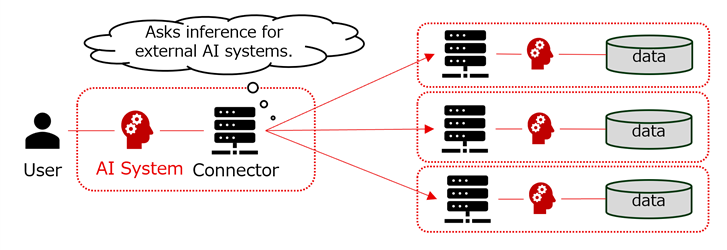
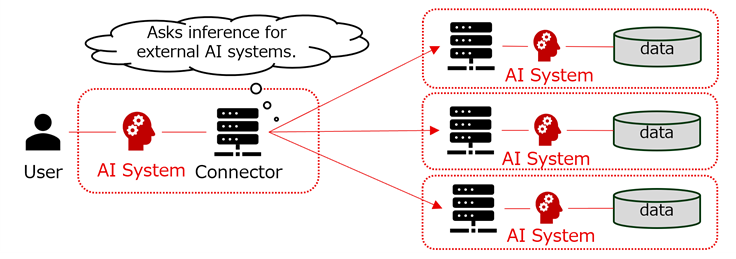
docs: add overall figure and misc corrections

diff --git a/docs-kits/kits/ai-support-kit/software-development-view.md b/docs-kits/kits/ai-support-kit/software-development-view.md
@@ -75,12 +75,20 @@ For the `Consumer App` to use `Provider AI` in this configuration, the `Provider
 Refer to the [Management API Overview](https://github.com/eclipse-tractusx/tractusx-edc/blob/main/docs/usage/management-api-walkthrough/README.md) for general procedures and the functionality of individual API calls.
 
 The parts of this procedure relevant to this KIT are as follows:
-- `create asset` step: The `Provider App` registers clues for the `Client App` to find `Provider AI` with EDC. See the [Creating an Asset of LLM](#creating-an-asset-of-llm) section for details.
-- `create contract` step: The `Provider App` registers a contract with EDC that references AI-specific rules. For details, see [Creating a Usage Policy for LLM](#creating-a-usage-policy-for-llm).
+- `create asset` step: The `Provider App` registers clues for the `Client App` to find `Provider AI` with EDC. See the [Creating an Asset of AI system](#creating-an-asset-of-ai-system) section for details.
+- `create contract` step: The `Provider App` registers a contract with EDC that references AI-specific rules. For details, see [Creating a Usage Policy for AI system](#creating-a-usage-policy-for-ai-system).
+
+By adding these property and definition, consumer will be able to find AI system it wants, and then to agree to the Provider's request that it should follow the EU AI Act, for example.
+
+[![c](concept-ai-small.png)](concept-ai.png)
+
+The figure shown above shows how the Provider and Consumer can use the definitions discussed in this KIT.
+
+Note: data plane in the figure goes through http proxy, but this is not a requirement.
 
 ## Sample Data
 
-### Creating an Asset of LLM
+### Creating an Asset of AI System
 
 To register an AI ssytem to EDC, `Provider App` needs to `POST` a JSON object to `/v3/assets`. The JSON object needs the following property added to `properties` section:
 
@@ -180,9 +188,9 @@ The `subType` property can have one of the following values:
 
 `details` property may have an object containing any kinds of propererties.
 
-## Creating a Usage Policy for LLM
+## Creating a Usage Policy for AI System
 
-When utilizing AI, aspects such as safety, transparency, ethics, and privacy protection are of critical importance, and AI regulations addressing these concerns are established across different regions and countries. These regulations must be observed by all parties involved, including data providers, data users (AI system developers and AI users). Therefore, compliance with AI regulations is essential when using the LLM Support KIT. Below is an explanation of how AI regulations are applied within EDC.
+When utilizing AI, aspects such as safety, transparency, ethics, and privacy protection are of critical importance, and AI regulations addressing these concerns are established across different regions and countries. These regulations must be observed by all parties involved, including data providers, data users (AI system developers and AI users). Therefore, compliance with AI regulations is essential when using the AI Service KIT. Below is an explanation of how AI regulations are applied within EDC.
 
 ### *List of AI-related Laws and Regulations by Country/Region
 
@@ -225,7 +233,7 @@ Here's an example
             "@type": "LogicalConstraint",
             "leftOperand": "https://w3id.org/catenax/policy/UsagePurpose",
             "operator": "eq",
-            "rightOperand": "cx.llm.base:1"
+            "rightOperand": "cx.ai.base:1"
           }
         ]
       }
@@ -236,11 +244,13 @@ Here's an example
 }
 ```
 
-The expression rightOperand: "cx.llm.base:1" indicates that data usage is permitted only when it aligns with the purpose defined as "cx.llm.base:1". This purpose requires the data consumer to comply with the obligations of ["deployer"](https://artificialintelligenceact.eu/article/3/) as stipulated in the AI Act.
+The expression rightOperand: "cx.ai.base:1" indicates that data usage is permitted only when it aligns with the purpose defined as "cx.ai.base:1". This purpose requires the data consumer to comply with the obligations of ["deployer"](https://artificialintelligenceact.eu/article/3/) as stipulated in the AI Act.
+
+Note: the "cx.ai.base:1" mentioned in the example and the description above is under discussionnot and not defined yet. Please be reminded that you may not use this value at the moment.
 
 ## Notice
 
 This work is licensed under the [CC-BY-4.0](https://creativecommons.org/licenses/by/4.0/legalcode).
 
 - SPDX-License-Identifier: CC-BY-4.0
-- SPDX-FileCopyrightText: 2025 FUJITSU
+- SPDX-FileCopyrightText: 2025 FUJITSU LIMITED

diff --git a/docs-kits/kits/ai-support-kit/adoption-view.md b/docs-kits/kits/ai-support-kit/adoption-view.md
@@ -27,9 +27,7 @@ The AI service in this document is defined as a service that provides users with
 
 While there are variety of ways to use AI systems in conjunction with dataspace, we discuss "AI agents", "Agentic System" that are connected **directly** to EDC.
 
-AI systems, a part of AI service, directly connected to EDCs can offer capabilities in many ways:
-- Category 1: AI systems offers capabilities **within** the boundaries of Catena-X Use Case
-- Category 2: AI Systems offers capabilities **outside** any Catena-X Use Case
+AI systems, a part of AI service, directly connected to EDCs can offer capabilities  both **within** and **outside** automotive Use cases.
 
 In either way, AI systems will be connected and be accessible via EDCs.
 
@@ -72,4 +70,4 @@ TBD
 This work is licensed under the [CC-BY-4.0](https://creativecommons.org/licenses/by/4.0/legalcode).
 
 - SPDX-License-Identifier: CC-BY-4.0
-- SPDX-FileCopyrightText: 2025 FUJITSU
+- SPDX-FileCopyrightText: 2025 FUJITSU LIMITED

diff --git a/docs-kits/kits/ai-support-kit/changelog.md b/docs-kits/kits/ai-support-kit/changelog.md
@@ -15,7 +15,7 @@ AI Service KIT
   </div>
 </div>
 
-## [1.0.0] - 2025-12-03
+## [0.0.1] - 2025-12-03
 
 ### ADDED
 
